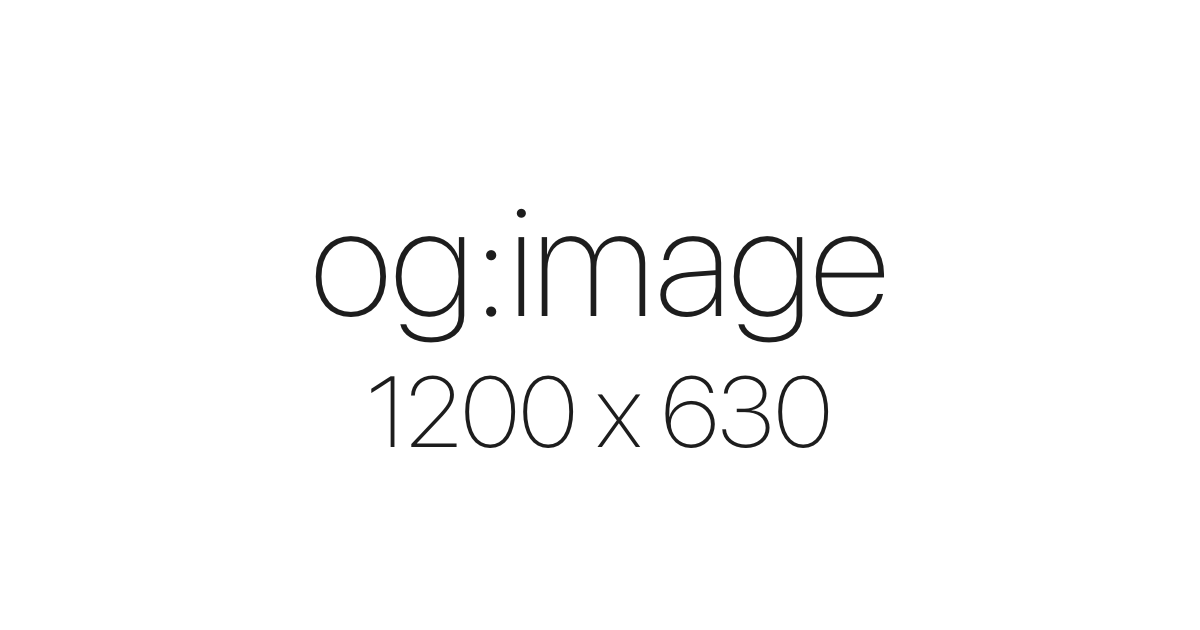
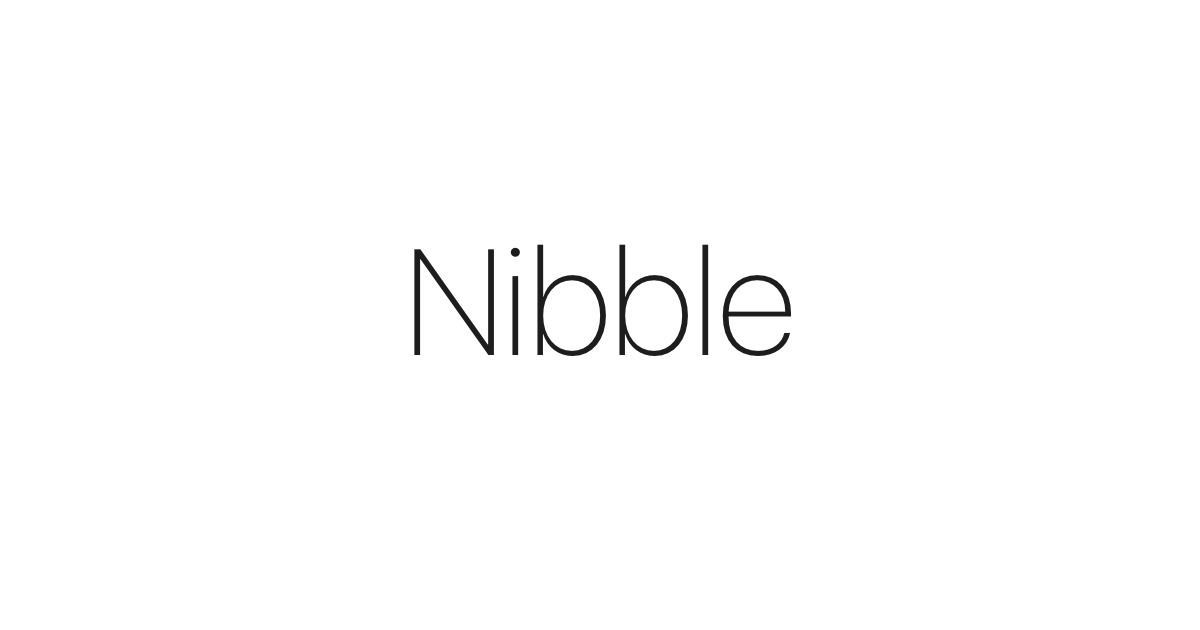
Rebrand template with nibble

diff --git a/index.html b/index.html
@@ -2,4 +2,4 @@
 layout: default
 ---
 
-<h1 class="title">Hello world</h1>
+<h1 class="title">Nibble</h1>
